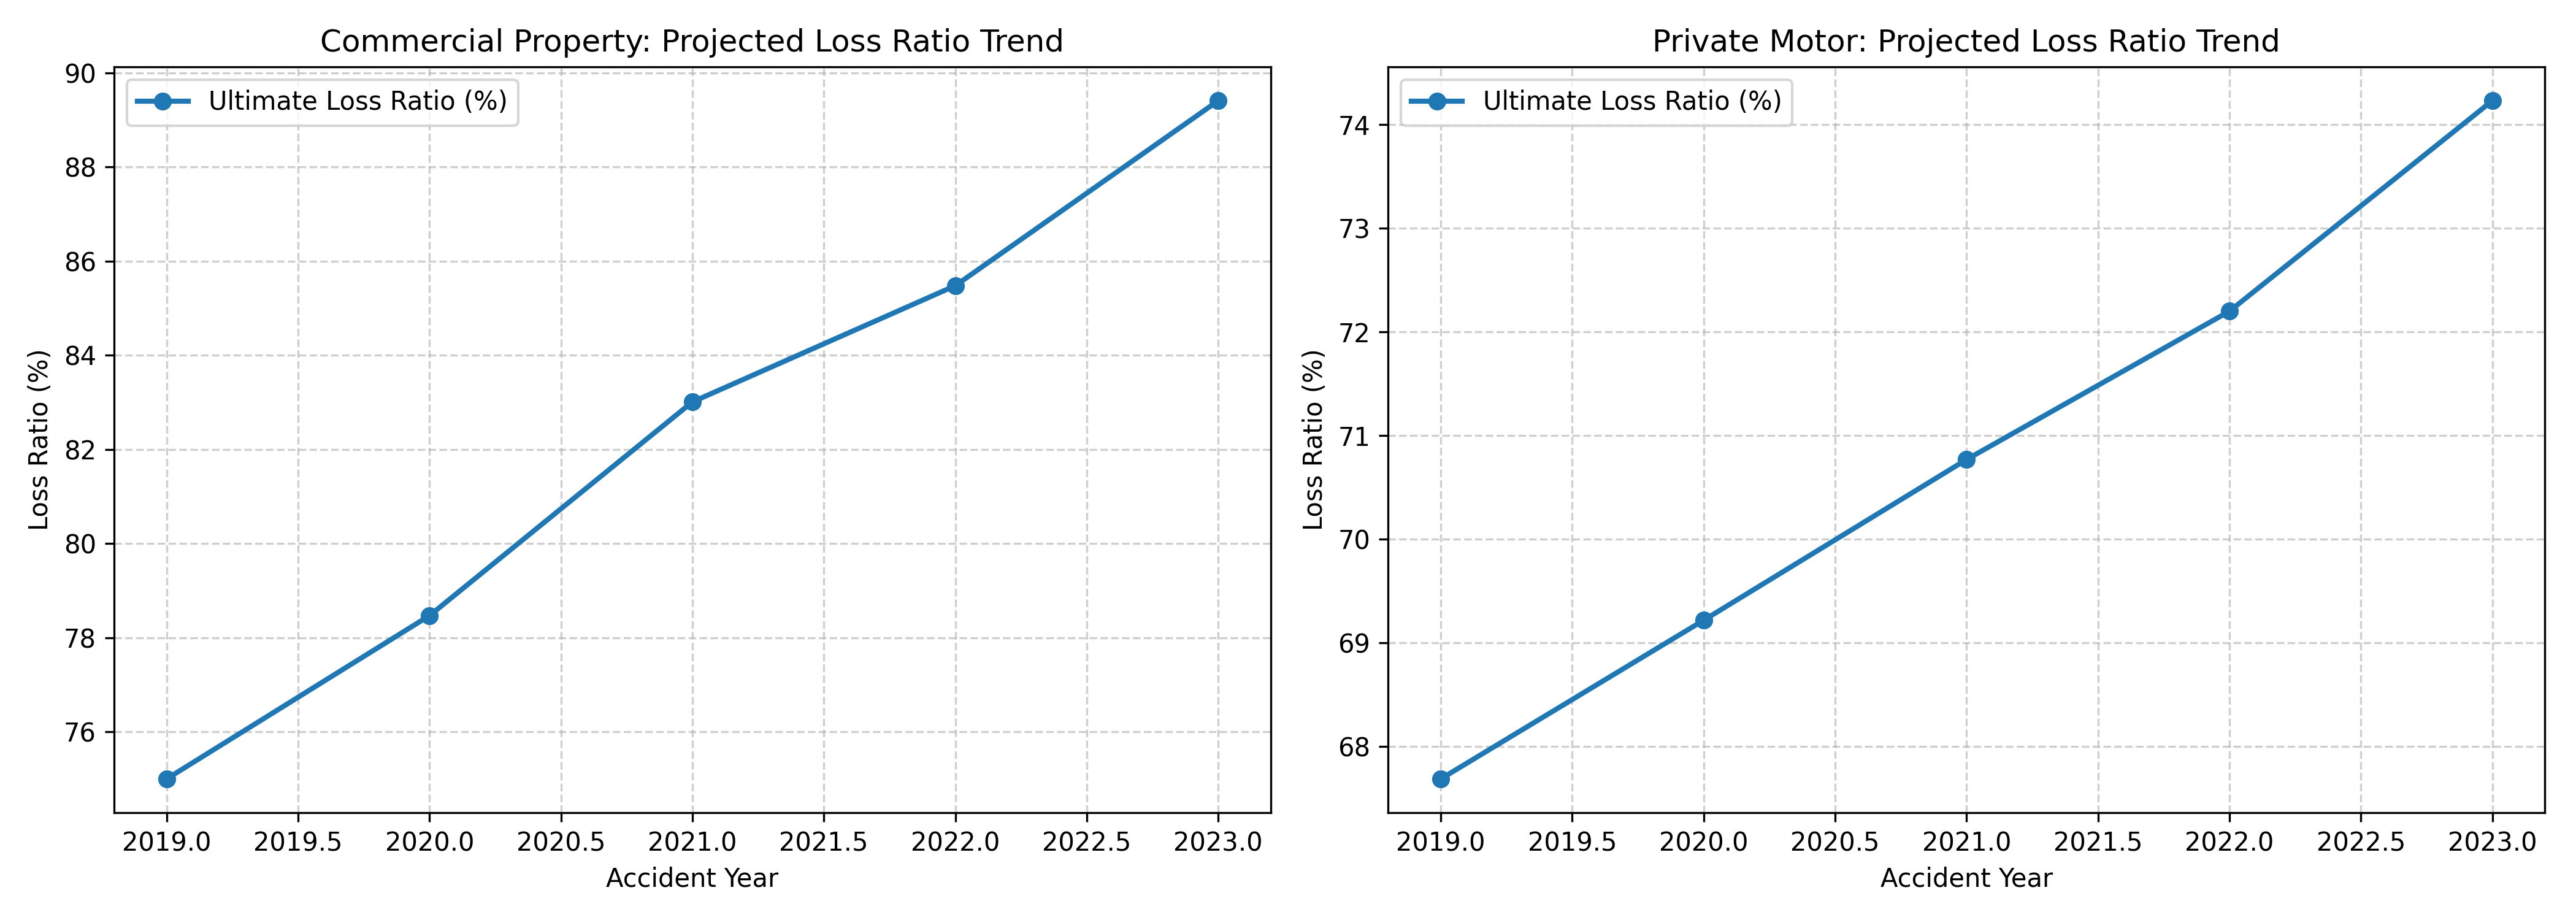
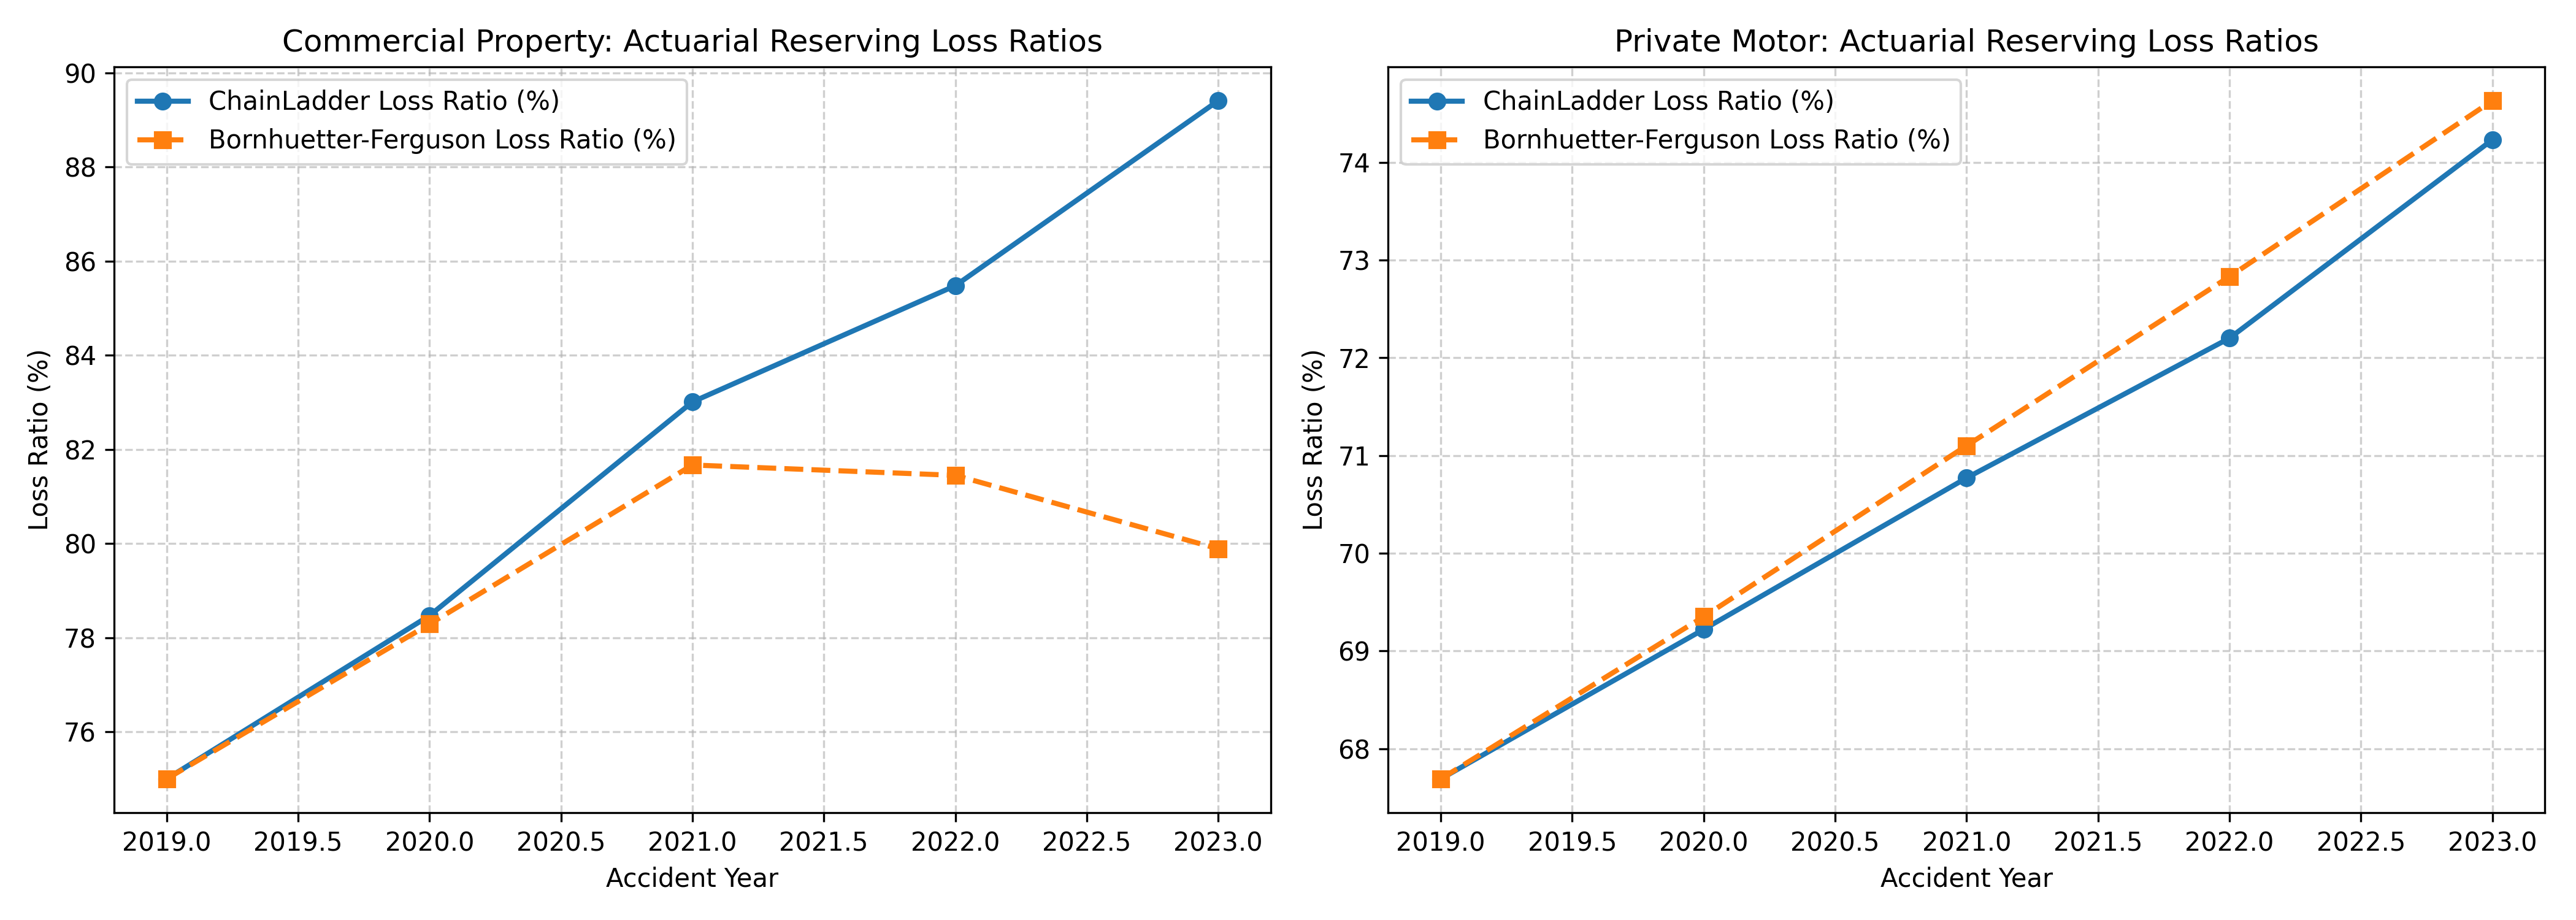
Optimize Insurance Analytics & Senior BA portfolio deliverables

diff --git a/app.py b/app.py
@@ -1,0 +1,72 @@
+import os
+import pandas as pd
+import numpy as np
+import streamlit as st
+import plotly.express as px
+import plotly.graph_objects as go
+
+from src.claims_analysis import load_data, build_loss_triangle, calculate_chainladder_factors, project_ultimate_and_ibnr
+
+st.set_page_config(page_title="P&C Actuarial Claims Reserving Console", layout="wide")
+
+st.title("📊 P&C Actuarial Claims Reserving & Loss Ratio Console")
+st.markdown("**Author:** Sachin Sharma | Senior Business Analyst & Insurance Analytics Specialist")
+
+base_dir = os.path.dirname(os.path.abspath(__file__))
+data_path = os.path.join(base_dir, 'data', 'pc_claims_dataset.csv')
+
+df = load_data(data_path)
+
+st.sidebar.header("⚙️ Model Parameters")
+selected_lob = st.sidebar.selectbox("Select Line of Business", df['line_of_business'].unique())
+ielr_pct = st.sidebar.slider("Bornhuetter-Ferguson Initial Expected Loss Ratio (IELR %)", min_value=50, max_value=110, value=75, step=5)
+ielr = ielr_pct / 100.0
+
+st.subheader(f"1. Loss Development Triangle (£) — {selected_lob}")
+paid_triangle = build_loss_triangle(df, selected_lob, metric='paid_claims')
+st.dataframe(paid_triangle.style.format("£{:,.0f}", na_rep="-"))
+
+ldfs, cdfs = calculate_chainladder_factors(paid_triangle)
+
+st.subheader("2. Loss Development Factors (LDF & CDF)")
+col1, col2 = st.columns(2)
+
+with col1:
+    ldf_df = pd.DataFrame({
+        'Development Stage': [f'DY {i} -> {i+1}' for i in range(len(ldfs))],
+        'Link Ratio (LDF)': [round(x, 4) for x in ldfs]
+    })
+    st.table(ldf_df)
+
+with col2:
+    cdf_df = pd.DataFrame({
+        'Development Year': paid_triangle.columns,
+        'Cumulative LDF (CDF)': [round(x, 4) for x in cdfs]
+    })
+    st.table(cdf_df)
+
+# Reserving Projections
+lob_df = df[df['line_of_business'] == selected_lob]
+premium_map = lob_df.groupby('accident_year')['earned_premium'].first().to_dict()
+
+res_df = project_ultimate_and_ibnr(paid_triangle, cdfs, premium_map, initial_expected_loss_ratio=ielr)
+
+st.subheader("3. Actuarial Reserving Comparison: ChainLadder vs. Bornhuetter-Ferguson")
+st.dataframe(res_df.style.format({
+    'latest_paid_claims': "£{:,.0f}",
+    'cl_ultimate_claims': "£{:,.0f}",
+    'cl_ibnr_reserve': "£{:,.0f}",
+    'cl_loss_ratio': "{:.1%}",
+    'bf_ultimate_claims': "£{:,.0f}",
+    'bf_ibnr_reserve': "£{:,.0f}",
+    'bf_loss_ratio': "{:.1%}",
+    'earned_premium': "£{:,.0f}"
+}))
+
+# Chart Comparison
+st.subheader("4. Projected Ultimate Loss Ratio Trend Comparison")
+fig = go.Figure()
+fig.add_trace(go.Scatter(x=res_df['accident_year'], y=res_df['cl_loss_ratio']*100, mode='lines+markers', name='ChainLadder Loss Ratio (%)'))
+fig.add_trace(go.Scatter(x=res_df['accident_year'], y=res_df['bf_loss_ratio']*100, mode='lines+markers', name='Bornhuetter-Ferguson Loss Ratio (%)', line=dict(dash='dash')))
+fig.update_layout(title=f"{selected_lob} - Loss Ratio Comparison", xaxis_title="Accident Year", yaxis_title="Loss Ratio (%)", template="plotly_white")
+st.plotly_chart(fig, use_container_width=True)

diff --git a/src/claims_analysis.py b/src/claims_analysis.py
@@ -5,9 +5,10 @@ P&C Claims Analytics & Actuarial Reserving Engine
 Performs:
 1. Loss Development Triangle Construction (Paid & Incurred Claims).
 2. ChainLadder Loss Development Factors (LDF) & Link Ratio Calculations.
-3. Ultimate Claims Projections & IBNR (Incurred But Not Reported) Reserving.
-4. Loss Ratio Analysis (Paid Loss Ratio, Incurred Loss Ratio, Combined Ratio Proxy).
-5. Visualizations & Executive Reporting Summaries.
+3. Bornhuetter-Ferguson (BF) Reserving Method (combining IELR & CDF).
+4. Ultimate Claims Projections & IBNR Reserving comparison.
+5. Loss Ratio Analysis (Paid Loss Ratio, Incurred Loss Ratio, Ultimate Loss Ratio).
+6. Visualizations & Executive Reporting Summaries.
 
 Author: Sachin Sharma (Senior Business Analyst & Insurance Analytics Specialist)
 """
@@ -52,10 +53,11 @@ def calculate_chainladder_factors(triangle):
         
     return ldfs, cdf
 
-def project_ultimate_and_ibnr(triangle, cdf, premium_map):
-    """Project Ultimate Claims and calculate required IBNR Reserves per Accident Year."""
+def project_ultimate_and_ibnr(triangle, cdf, premium_map, initial_expected_loss_ratio=0.75):
+    """
+    Project Ultimate Claims & IBNR using both ChainLadder and Bornhuetter-Ferguson (BF) methods.
+    """
     results = []
-    latest_dev_map = {}
     
     for ay in triangle.index:
         row = triangle.loc[ay].dropna()
@@ -63,20 +65,33 @@ def project_ultimate_and_ibnr(triangle, cdf, premium_map):
         latest_value = row.iloc[-1]
         
         c_factor = cdf[latest_dev]
-        ultimate = latest_value * c_factor
-        ibnr = ultimate - latest_value
         premium = premium_map.get(ay, np.nan)
-        earned_loss_ratio = (ultimate / premium) if premium else np.nan
+        
+        # 1. ChainLadder Projection
+        cl_ultimate = latest_value * c_factor
+        cl_ibnr = cl_ultimate - latest_value
+        cl_loss_ratio = (cl_ultimate / premium) if premium else np.nan
+        
+        # 2. Bornhuetter-Ferguson (BF) Projection
+        # Expected Initial Ultimate Loss = Premium * IELR
+        expected_ultimate = premium * initial_expected_loss_ratio
+        percent_unreported = 1.0 - (1.0 / c_factor)
+        bf_ibnr = expected_ultimate * percent_unreported
+        bf_ultimate = latest_value + bf_ibnr
+        bf_loss_ratio = (bf_ultimate / premium) if premium else np.nan
         
         results.append({
             'accident_year': ay,
             'latest_dev_year': latest_dev,
             'latest_paid_claims': latest_value,
             'cdf_to_ultimate': round(c_factor, 4),
-            'projected_ultimate_claims': round(ultimate, 2),
-            'ibnr_reserve_required': round(ibnr, 2),
-            'earned_premium': premium,
-            'projected_ultimate_loss_ratio': round(earned_loss_ratio, 4)
+            'cl_ultimate_claims': round(cl_ultimate, 2),
+            'cl_ibnr_reserve': round(cl_ibnr, 2),
+            'cl_loss_ratio': round(cl_loss_ratio, 4),
+            'bf_ibnr_reserve': round(bf_ibnr, 2),
+            'bf_ultimate_claims': round(bf_ultimate, 2),
+            'bf_loss_ratio': round(bf_loss_ratio, 4),
+            'earned_premium': premium
         })
         
     return pd.DataFrame(results)
@@ -101,29 +116,23 @@ def main():
         print(f"==========================================")
         
         paid_triangle = build_loss_triangle(df, lob, metric='paid_claims')
-        print("\n--- Paid Claims Development Triangle (£) ---")
-        print(paid_triangle)
-        
         ldfs, cdfs = calculate_chainladder_factors(paid_triangle)
-        print("\n--- ChainLadder Development Factors (LDF) ---")
-        for i, factor in enumerate(ldfs):
-            print(f"Dev Year {i} -> {i+1}: {factor:.4f}")
-            
-        # Earned premium mapping
+        
         lob_df = df[df['line_of_business'] == lob]
         premium_map = lob_df.groupby('accident_year')['earned_premium'].first().to_dict()
         
-        reserving_summary = project_ultimate_and_ibnr(paid_triangle, cdfs, premium_map)
+        reserving_summary = project_ultimate_and_ibnr(paid_triangle, cdfs, premium_map, initial_expected_loss_ratio=0.75)
         reserving_summary['line_of_business'] = lob
         all_summaries.append(reserving_summary)
         
-        print("\n--- Reserving & IBNR Projection Summary ---")
-        print(reserving_summary[['accident_year', 'latest_paid_claims', 'projected_ultimate_claims', 'ibnr_reserve_required', 'projected_ultimate_loss_ratio']])
+        print("\n--- ChainLadder vs Bornhuetter-Ferguson Reserving Summary ---")
+        print(reserving_summary[['accident_year', 'latest_paid_claims', 'cl_ultimate_claims', 'cl_ibnr_reserve', 'bf_ultimate_claims', 'bf_ibnr_reserve']])
         
-        # Plot Loss Ratio Trend
+        # Plot Loss Ratio Comparison Trend
         ax = axes[idx]
-        ax.plot(reserving_summary['accident_year'], reserving_summary['projected_ultimate_loss_ratio'] * 100, marker='o', linewidth=2, label='Ultimate Loss Ratio (%)')
-        ax.set_title(f'{lob}: Projected Loss Ratio Trend')
+        ax.plot(reserving_summary['accident_year'], reserving_summary['cl_loss_ratio'] * 100, marker='o', linewidth=2, label='ChainLadder Loss Ratio (%)')
+        ax.plot(reserving_summary['accident_year'], reserving_summary['bf_loss_ratio'] * 100, marker='s', linewidth=2, linestyle='--', label='Bornhuetter-Ferguson Loss Ratio (%)')
+        ax.set_title(f'{lob}: Actuarial Reserving Loss Ratios')
         ax.set_xlabel('Accident Year')
         ax.set_ylabel('Loss Ratio (%)')
         ax.grid(True, linestyle='--', alpha=0.6)